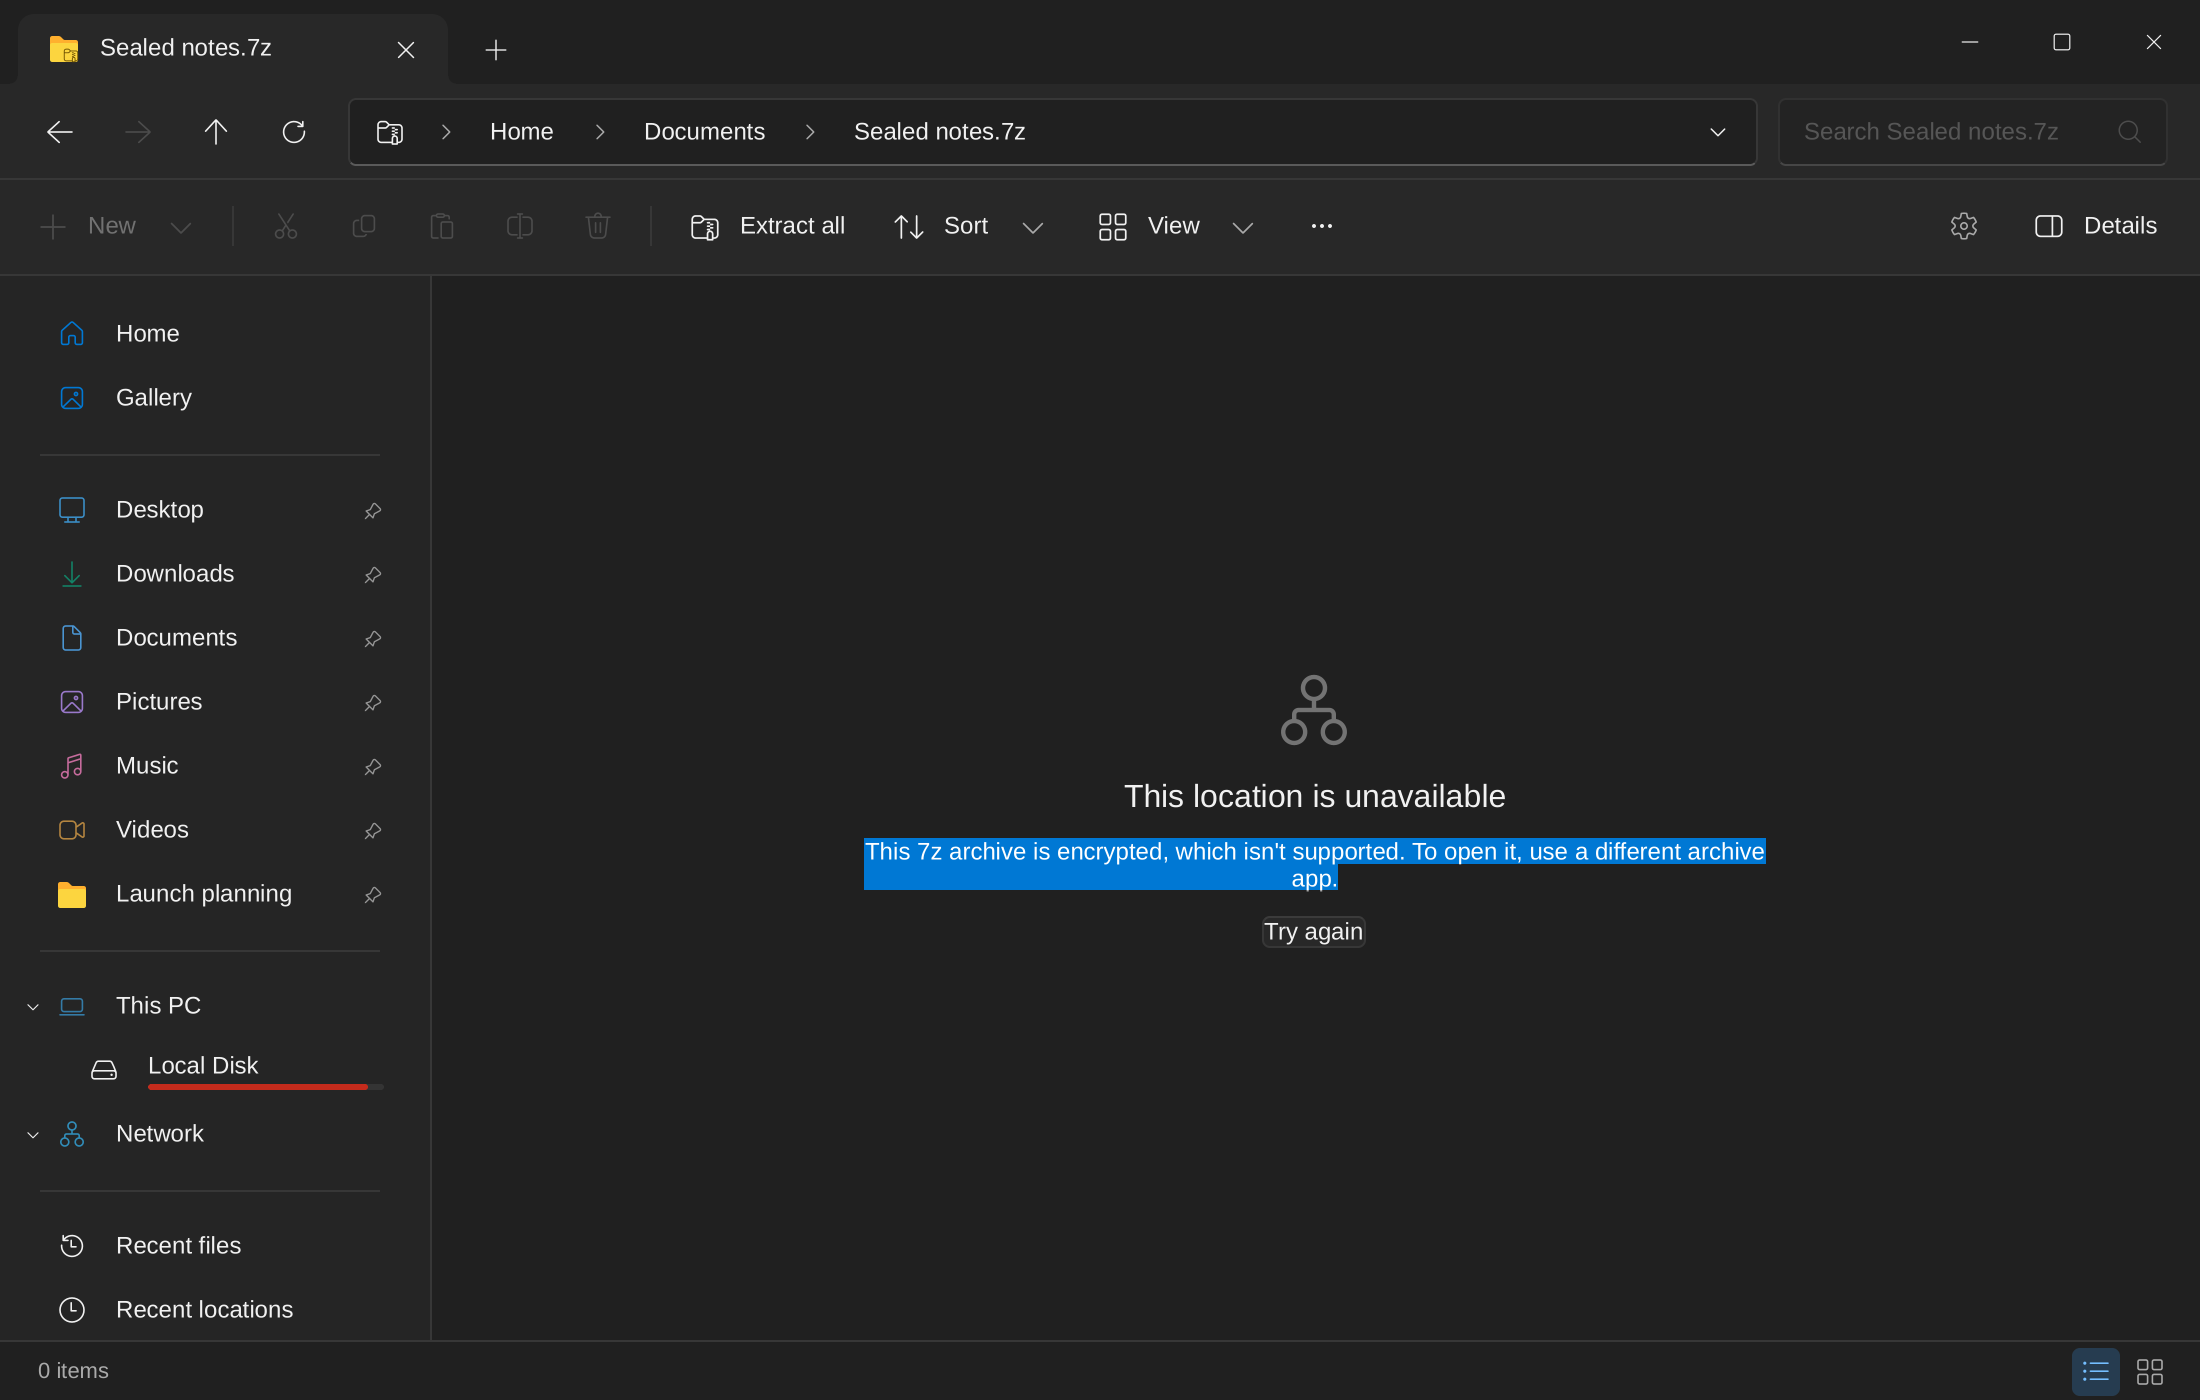
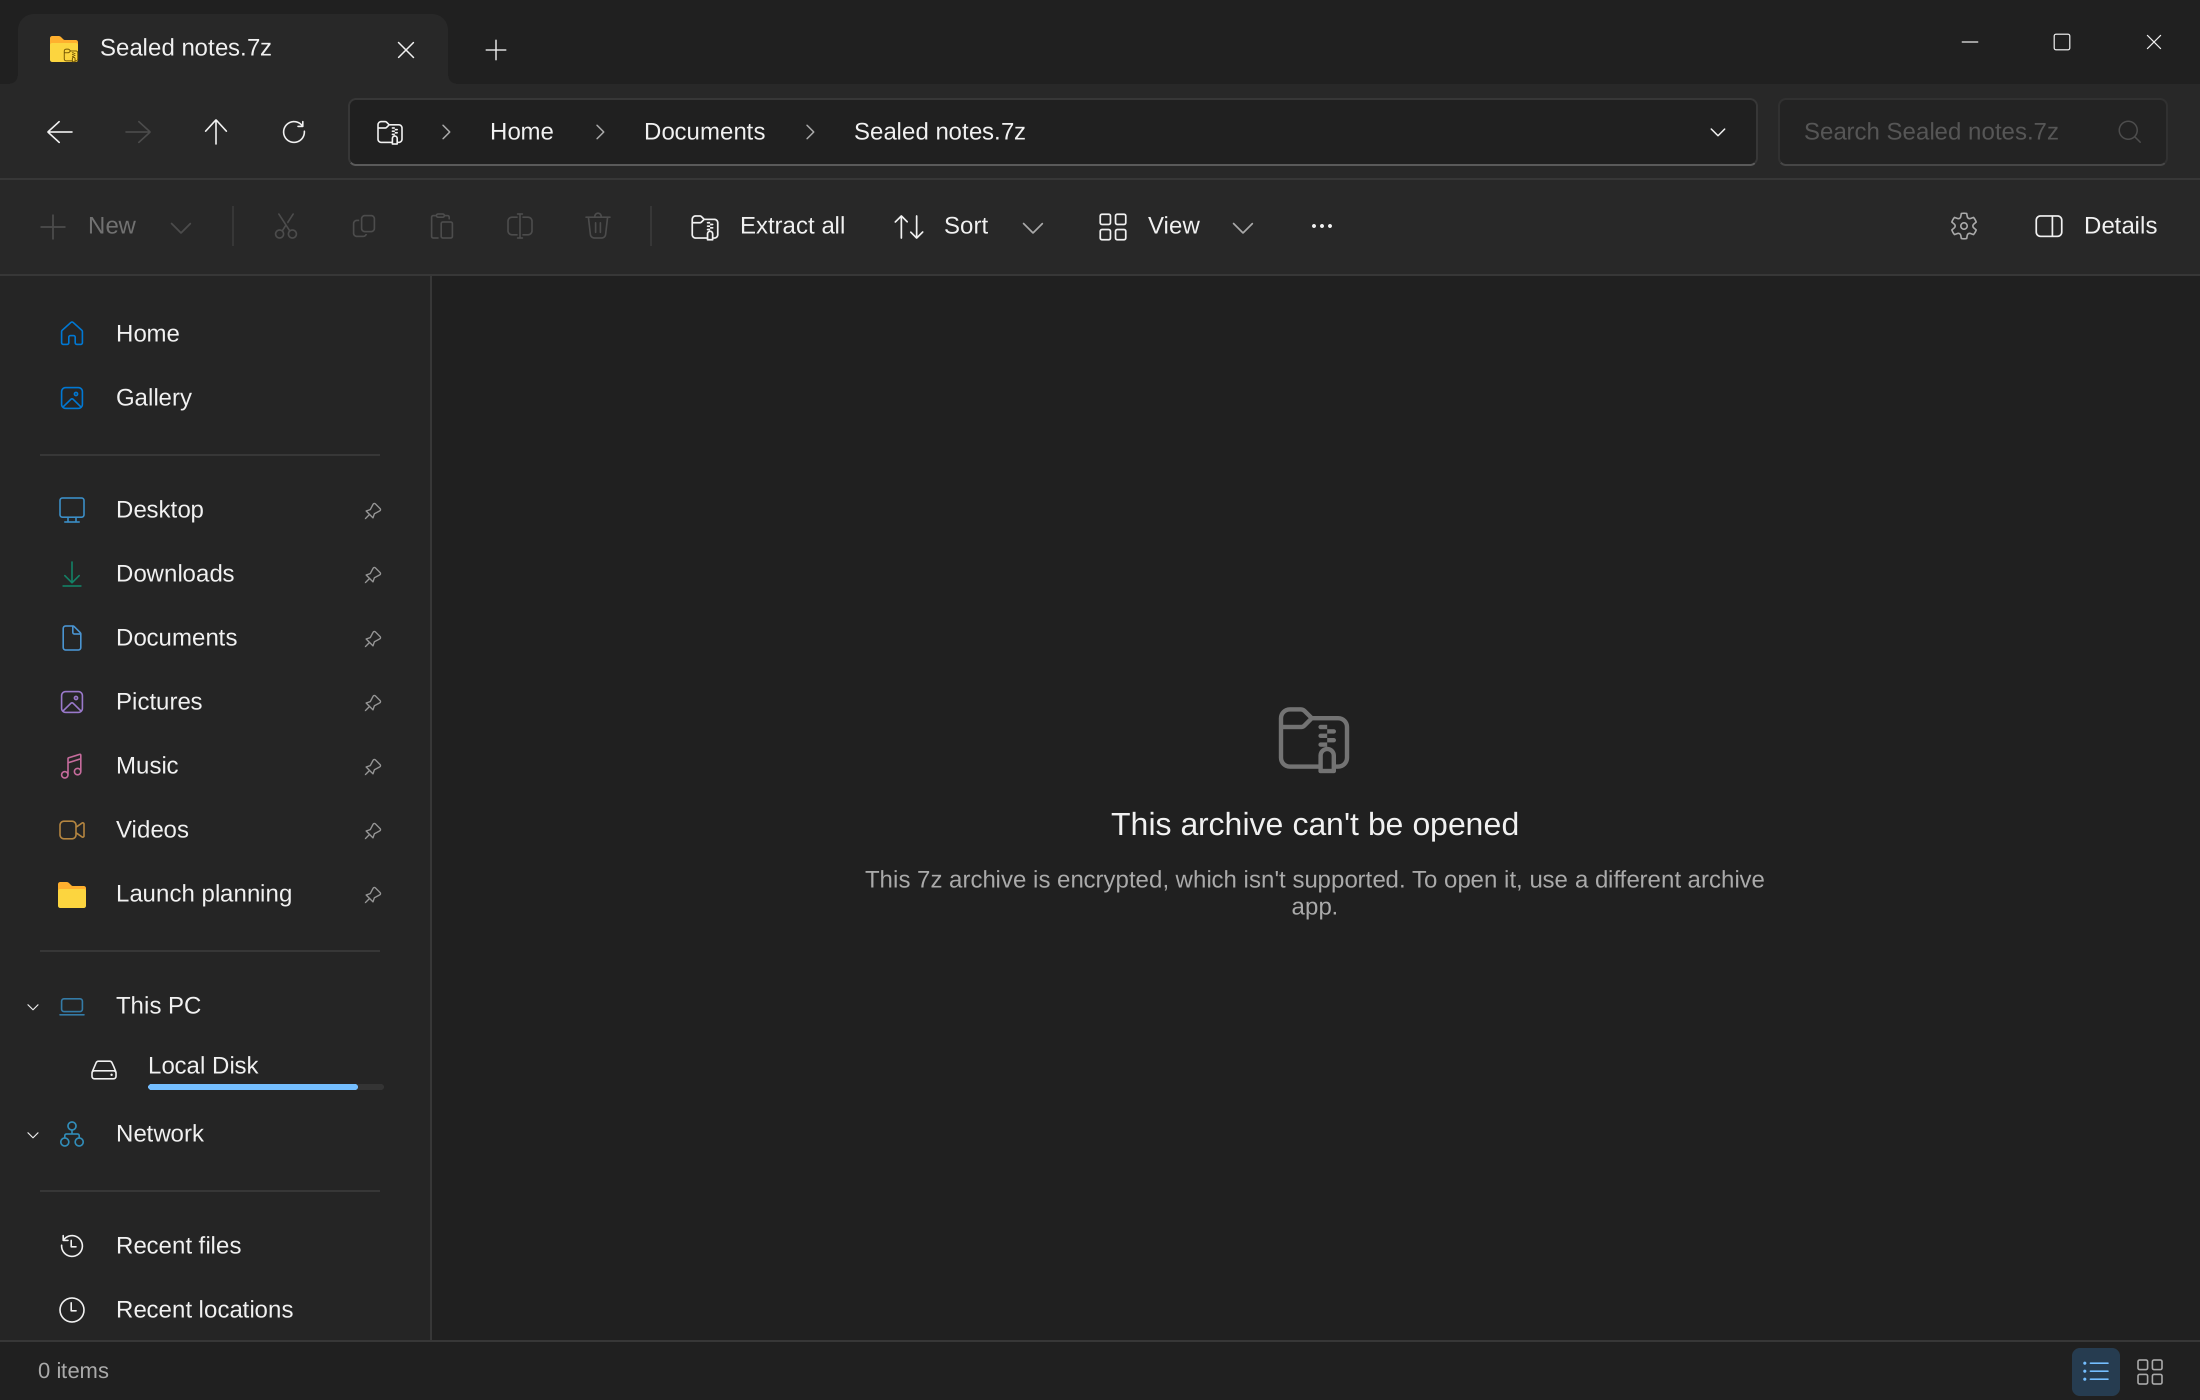
sevenz-browse: done after the merge

Changed region(s): [[0.3709, 0.4914, 0.8036, 0.6757], [0.0618, 0.7679, 0.1545, 0.7986]]

diff --git a/sevenz-browse-pr.md b/sevenz-browse-pr.md
@@ -6,15 +6,14 @@ feat(archives): Browse, open and extract 7z archives like ZIP and TAR
 
 Model: claude-opus-5-5
 
-**Builds on #336 and #348:** this branch includes their commits, so please merge those first; this PR then shows only its own changes.
-
 ## Summary
 
 A `.7z` file now behaves like a ZIP or TAR file. Double-clicking it opens it like a folder, following the same "Double-clicking a ZIP" setting. You can browse its folders, sort, and see the Details columns. A file inside opens as a read-only private copy. Extract all (with "Show extracted files when complete") and Extract here unpack it, with the same progress, Cancel, Replace or Skip, and error handling as ZIP.
 
 - The app reads the 7z headers itself and checks every count and size before the `sevenz-rust2` reader sees them. Listing a 7z decompresses nothing. The headers of the last few archives browsed are kept, so moving between folders of one archive reads only its first bytes again.
-- File data is decoded by `sevenz-rust2` (reading side, same pinned version, no new features or crates) on a thread of its own. A solid block is decoded once per extraction, not once per file. LZMA, LZMA2, Copy, Delta, the branch filters and BCJ2 (7-Zip's Ultra level for programs) are supported.
-- Encrypted 7z archives are listed when their names are readable, and say plainly that encryption isn't supported. Windows 11 does the same. An archive with encrypted names says so before listing. Other methods (PPMd, BZip2, Deflate) are listed and refused with a plain message.
+- File data is decoded by `sevenz-rust2` (same pinned version) on a thread of its own. A solid block is decoded once per extraction, not once per file. LZMA, LZMA2, Copy, Delta, the branch filters, BCJ2 (7-Zip's Ultra level for programs) and BZip2 are supported. BZip2 uses the crate's `bzip2` feature, which decodes with the `bzip2` crate the app already builds, so nothing is added to the build.
+- Encrypted 7z archives are listed when their names are readable, and say plainly that encryption isn't supported. Windows 11 does the same. An archive with encrypted names says so before listing. Other methods (PPMd, Deflate) are listed and refused with a plain message.
+- An archive that can't be read (damaged, encrypted names, any format) now shows an archive page in the tab: an archive icon, "This archive can't be opened" and the reason, not selected and without a Try again button that would fail the same way. Before, it showed the network "This location is unavailable" page.
 - Unsafe paths, links and special files are hidden and stop an extraction, as for ZIP and TAR. A damaged or cut 7z is refused, and nothing is left behind.
 - Fix for Compress to › 7z File: the pinned `sevenz-rust2` writer marked every folder as an "anti-item" (a delete marker), so 7-Zip and Windows dropped empty folders when they extracted the archive. Folders are now written as plain folders.
 
@@ -24,12 +23,13 @@ A `.7z` file now behaves like a ZIP or TAR file. Double-clicking it opens it lik
 |---|---|---|---|
 | Double-click a .7z | Opens in the default app | Opens like a folder (or in the archive window), as the ZIP setting says | Opens like a folder ([Zip and unzip files](https://support.microsoft.com/en-us/windows/zip-and-unzip-files-8d28fa72-f2f9-712f-67df-f80cf89fd4e5): "Windows 11, version 24H2 supports ZIP, RAR. 7z and TAR archive formats") |
 | Extract all / Extract here | Not offered for 7z | Same dialog and rules as ZIP | Extract All ([Zip and unzip files](https://support.microsoft.com/en-us/windows/zip-and-unzip-files-8d28fa72-f2f9-712f-67df-f80cf89fd4e5)) |
+| Archive that can't be read | Network "This location is unavailable" page, reason drawn selected, Try again | Archive page: archive icon, "This archive can't be opened", the reason, no Try again | Not described on the Microsoft pages |
 | Encrypted 7z | Default app | Listed when names are readable, then "isn't supported" | "it does not support operations on encrypted archive files" ([Zip and unzip files](https://support.microsoft.com/en-us/windows/zip-and-unzip-files-8d28fa72-f2f9-712f-67df-f80cf89fd4e5)) |
 | Empty folders in a new 7z | Lost when 7-Zip or Windows extracts it | Kept | Creates 7z archives ([What's new in Windows 11, version 24H2](https://learn.microsoft.com/en-us/windows/whats-new/whats-new-windows-11-version-24h2): "Support for creating 7-zip and TAR archives") |
 
 ## How it was tested
 
-- New tests: 16 in `native/crates/ox-core/tests/archive_seven_zip.rs`, 1 in `native/crates/ox-core/src/archive/create.rs`, 5 in `native/crates/ox-app/src/window/tests/seven_zip_folder.rs`. The 7z tests were written first and failed before the reader (14 core and all 5 app tests), and the empty-folder test failed before the writer fix. All pass now, except the one container-specific step below. The BCJ2 test was added with BCJ2 support, and a forged-coder test guards that path. One app test step (opening with "Open archives as folders" off) times out in the test container, and the same step of the existing TAR test fails there on unchanged main too.
+- New tests: 17 in `native/crates/ox-core/tests/archive_seven_zip.rs`, 1 in `native/crates/ox-core/src/archive/create.rs`, 5 in `native/crates/ox-app/src/window/tests/seven_zip_folder.rs`. They were written first and failed before their change: 14 core and all 5 app tests before the reader, the BZip2 test before the feature, the empty-folder test before the writer fix and the archive-page checks before that fix. All pass now. The BCJ2 test was added with BCJ2 support, and a forged-coder test guards that path.
 - Archives made by 7-Zip 23 (solid, non-solid, LZMA, Ultra with BCJ2, PPMd, BZip2, AES, encrypted names, a symbolic link) were listed and extracted, and the results compared with 7-Zip's.
 - Real keyboard and mouse input with xdotool on Xvfb, at 1x and 2x, light and dark: opening, browsing, sorting, opening a file inside, Extract all, a 10,000-file solid archive, Cancel, Replace and Skip, a full disk and a read-only destination. No crash, no GTK criticals and no data loss.
 - `python3 native/tools/check.py`, `python3 native/parity/check.py`, rustfmt and Clippy.
